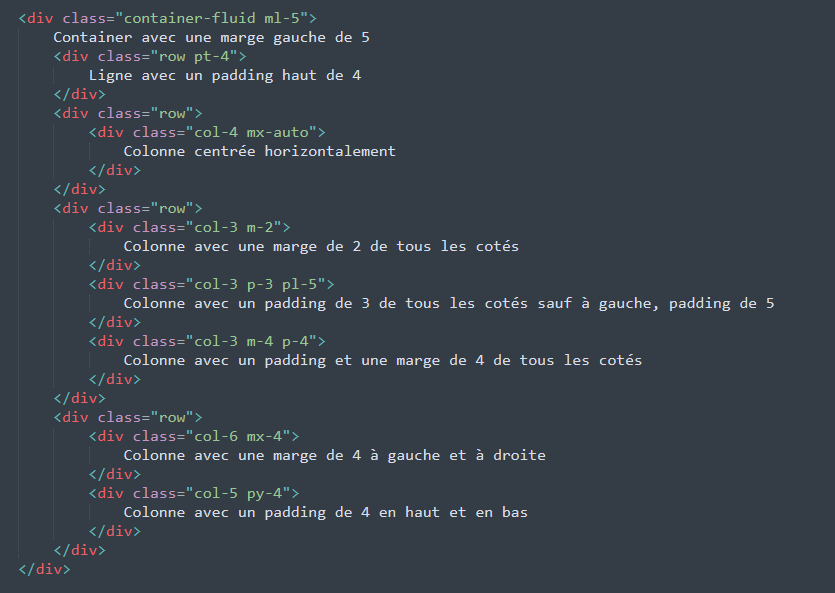
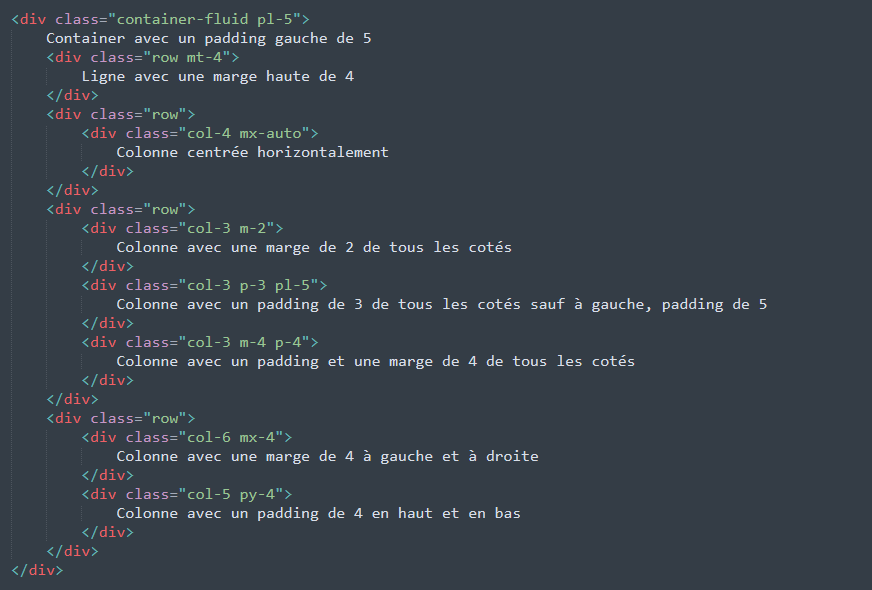
spacing.html

Changed region(s): [[0.0, 0.0, 0.9341, 0.9763]]

diff --git a/html_exemples/spacing_exemple.html b/html_exemples/spacing_exemple.html
@@ -1,7 +1,7 @@
-<div class="container-fluid ml-5 border bg-light">
-	Container avec une marge gauche de 5
-	<div class="row pt-4 border bg-primary">
-		Ligne avec un padding haut de 4
+<div class="container-fluid pl-5 border bg-light">
+	Container avec un padding gauche de 5
+	<div class="row mt-4 border bg-primary">
+		Ligne avec une marge haute de 4
 	</div>
 	<div class="row border bg-warning">
 		<div class="col-4 mx-auto border bg-secondary">
@@ -15,7 +15,7 @@
 		<div class="col-3 p-3 pl-5 bg-success">
 			Colonne avec un padding de 3 de tous les cotés sauf à gauche, padding de 5
 		</div>
-		<div class="col-3 m-4 p-4 border bg-success">
+		<div class="col-3 m-4 p-4 bg-success">
 			Colonne avec un padding et une marge de 4 de tous les cotés
 		</div>
 	</div>
